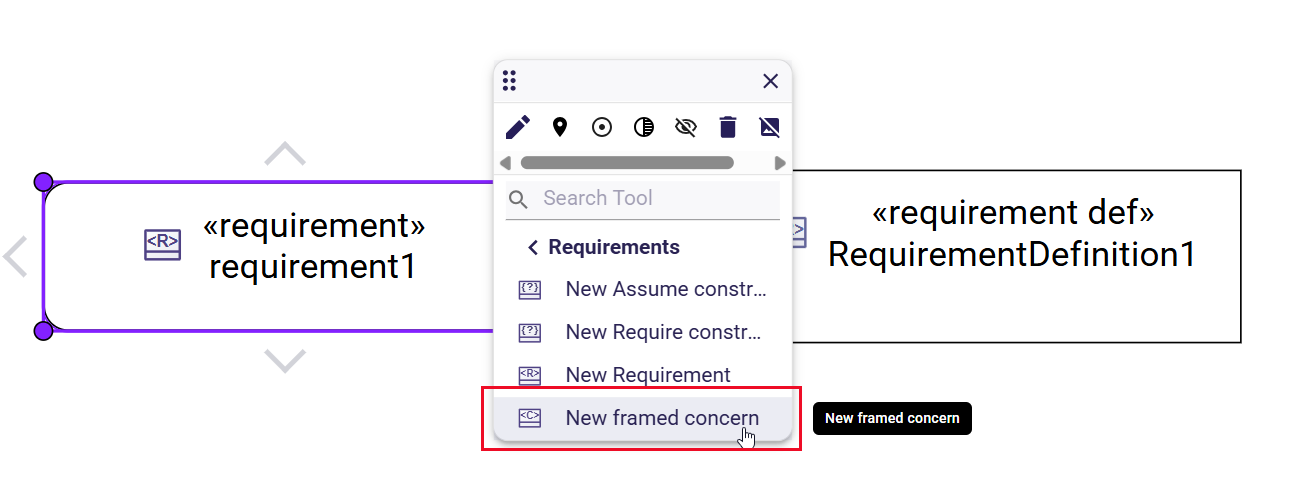
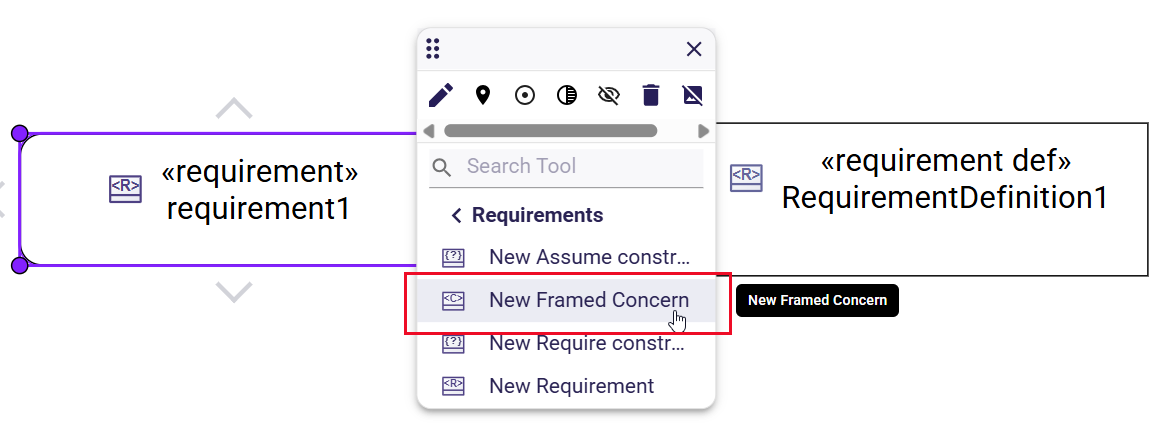
[2235] Leverage the selection dialog to create framed concern usages
Bug: https://github.com/eclipse-syson/syson/issues/2235

diff --git a/backend/views/syson-diagram-common-view/src/main/java/org/eclipse/syson/diagram/common/view/tools/FramedConcernNodeToolProvider.java b/backend/views/syson-diagram-common-view/src/main/java/org/eclipse/syson/diagram/common/view/tools/FramedConcernNodeToolProvider.java
@@ -1,0 +1,98 @@
+/*******************************************************************************
+ * Copyright (c) 2026 Obeo.
+ * This program and the accompanying materials
+ * are made available under the terms of the Eclipse Public License v2.0
+ * which accompanies this distribution, and is available at
+ * https://www.eclipse.org/legal/epl-2.0/
+ *
+ * SPDX-License-Identifier: EPL-2.0
+ *
+ * Contributors:
+ *     Obeo - initial API and implementation
+ *******************************************************************************/
+package org.eclipse.syson.diagram.common.view.tools;
+
+import org.eclipse.sirius.components.collaborative.diagrams.DiagramContext;
+import org.eclipse.sirius.components.core.api.IEditingContext;
+import org.eclipse.sirius.components.diagrams.Node;
+import org.eclipse.sirius.components.trees.renderer.TreeRenderer;
+import org.eclipse.sirius.components.view.builder.IViewDiagramElementFinder;
+import org.eclipse.sirius.components.view.builder.generated.diagram.DiagramBuilders;
+import org.eclipse.sirius.components.view.builder.generated.view.ViewBuilders;
+import org.eclipse.sirius.components.view.builder.providers.INodeToolProvider;
+import org.eclipse.sirius.components.view.diagram.DialogDescription;
+import org.eclipse.sirius.components.view.diagram.NodeTool;
+import org.eclipse.sirius.components.view.emf.diagram.ViewDiagramDescriptionConverter;
+import org.eclipse.syson.diagram.common.view.services.ViewToolService;
+import org.eclipse.syson.diagram.services.aql.DiagramMutationAQLService;
+import org.eclipse.syson.model.services.aql.ModelMutationAQLService;
+import org.eclipse.syson.sysml.SysmlPackage;
+import org.eclipse.syson.util.AQLConstants;
+import org.eclipse.syson.util.ServiceMethod;
+import org.eclipse.syson.util.SysMLMetamodelHelper;
+
+/**
+ * Used to create a Framed {@link org.eclipse.syson.sysml.ConcernUsage} in a {@link org.eclipse.syson.sysml.RequirementUsage} or a {@link org.eclipse.syson.sysml.RequirementDefinition}.
+ *
+ * @author gcoutable
+ */
+public class FramedConcernNodeToolProvider implements INodeToolProvider {
+
+    private final DiagramBuilders diagramBuilderHelper = new DiagramBuilders();
+
+    private final ViewBuilders viewBuilderHelper = new ViewBuilders();
+
+    @Override
+    public NodeTool create(IViewDiagramElementFinder cache) {
+        var builder = this.diagramBuilderHelper.newNodeTool();
+
+        var updateExposedElements = this.viewBuilderHelper.newChangeContext()
+                .expression(ServiceMethod.of4(DiagramMutationAQLService::expose).aqlSelf(IEditingContext.EDITING_CONTEXT, DiagramContext.DIAGRAM_CONTEXT, Node.SELECTED_NODE,
+                        ViewDiagramDescriptionConverter.CONVERTED_NODES_VARIABLE));
+
+        var selectedElementToExpose = this.viewBuilderHelper.newChangeContext()
+                .expression(AQLConstants.AQL_SELF + "." + SysmlPackage.eINSTANCE.getFramedConcernMembership_ReferencedConcern().getName())
+                .children(updateExposedElements.build());
+
+        var body = this.viewBuilderHelper.newChangeContext()
+                .expression(ServiceMethod.of1(ModelMutationAQLService::createFramedConcern).aqlSelf("selectedObject"))
+                .children(selectedElementToExpose.build());
+
+        return builder
+                .name(this.getToolName())
+                .iconURLsExpression("/icons/full/obj16/ConcernUsage.svg")
+                .body(body.build())
+                .dialogDescription(this.getSelectionDialogDescription())
+                .build();
+    }
+
+    private String getToolName() {
+        return "New Framed Concern";
+    }
+
+    private DialogDescription getSelectionDialogDescription() {
+        String concernUsageType = SysMLMetamodelHelper.buildQualifiedName(SysmlPackage.eINSTANCE.getConcernUsage());
+
+        var selectionDialogTree = this.diagramBuilderHelper.newSelectionDialogTreeDescription()
+                .isSelectableExpression(AQLConstants.AQL_SELF + ".oclIsKindOf(" + concernUsageType + ")")
+                .elementsExpression(ServiceMethod.of0(ViewToolService::getConcernReferenceSelectionDialogElements).aql(IEditingContext.EDITING_CONTEXT))
+                .childrenExpression(ServiceMethod.of2(ViewToolService::getConcernReferenceSelectionDialogChildren).aqlSelf(IEditingContext.EDITING_CONTEXT, TreeRenderer.EXPANDED))
+                .build();
+
+        return this.diagramBuilderHelper.newSelectionDialogDescription()
+                .selectionDialogTreeDescription(selectionDialogTree)
+                .defaultTitleExpression(this.getToolName())
+                .noSelectionTitleExpression(this.getToolName())
+                .withSelectionTitleExpression(this.getToolName())
+                .descriptionExpression("Create a Framed Concern")
+                .noSelectionActionLabelExpression("Create a New Framed Concern")
+                .noSelectionActionDescriptionExpression("Create a New Framed Concern without referencing an existing Concern")
+                .withSelectionActionLabelExpression("Select an existing Concern to frame")
+                .withSelectionActionDescriptionExpression("Create a New Framed Concern referencing the selected Concern")
+                .noSelectionActionStatusMessageExpression("It will create a New Framed Concern without referencing an existing Concern")
+                .selectionRequiredWithoutSelectionStatusMessageExpression("Select on Concern to frame")
+                .selectionRequiredWithSelectionStatusMessageExpression(AQLConstants.AQL + "'It will create a new Concern referencing ' + selectedObjects->first().name")
+                .optional(true)
+                .build();
+    }
+}

diff --git a/backend/application/syson-application/src/test/java/org/eclipse/syson/application/controllers/diagrams/general/view/GVSubNodeRequirementCreationTests.java b/backend/application/syson-application/src/test/java/org/eclipse/syson/application/controllers/diagrams/general/view/GVSubNodeRequirementCreationTests.java
@@ -30,6 +30,7 @@ import org.eclipse.emf.ecore.EClass;
 import org.eclipse.emf.ecore.EReference;
 import org.eclipse.sirius.components.collaborative.diagrams.dto.DiagramEventInput;
 import org.eclipse.sirius.components.collaborative.diagrams.dto.DiagramRefreshedEventPayload;
+import org.eclipse.sirius.components.core.api.IIdentityService;
 import org.eclipse.sirius.components.core.api.IObjectSearchService;
 import org.eclipse.sirius.components.diagrams.Diagram;
 import org.eclipse.sirius.components.view.emf.diagram.IDiagramIdProvider;
@@ -44,6 +45,7 @@ import org.eclipse.syson.application.controllers.diagrams.checkers.DiagramChecke
 import org.eclipse.syson.application.controllers.diagrams.testers.ToolTester;
 import org.eclipse.syson.application.controllers.utils.TestNameGenerator;
 import org.eclipse.syson.application.data.GeneralViewWithTopNodesTestProjectData;
+import org.eclipse.syson.diagram.common.view.nodes.FramedConcernCompartmentItemNodeDescription;
 import org.eclipse.syson.services.SemanticRunnableFactory;
 import org.eclipse.syson.services.diagrams.DiagramComparator;
 import org.eclipse.syson.services.diagrams.DiagramDescriptionIdProvider;
@@ -51,8 +53,11 @@ import org.eclipse.syson.services.diagrams.NodeCreationTestsService;
 import org.eclipse.syson.services.diagrams.api.IGivenDiagramDescription;
 import org.eclipse.syson.services.diagrams.api.IGivenDiagramSubscription;
 import org.eclipse.syson.standard.diagrams.view.SDVDescriptionNameGenerator;
+import org.eclipse.syson.sysml.ConcernUsage;
 import org.eclipse.syson.sysml.Element;
+import org.eclipse.syson.sysml.FramedConcernMembership;
 import org.eclipse.syson.sysml.PartUsage;
+import org.eclipse.syson.sysml.ReferenceSubsetting;
 import org.eclipse.syson.sysml.ReferenceUsage;
 import org.eclipse.syson.sysml.Specialization;
 import org.eclipse.syson.sysml.Subsetting;
@@ -110,6 +115,9 @@ public class GVSubNodeRequirementCreationTests extends AbstractIntegrationTests 
 
     @Autowired
     private DiagramComparator diagramComparator;
+
+    @Autowired
+    private IIdentityService identityService;
 
     private NodeCreationTestsService creationTestsService;
 
@@ -806,10 +814,10 @@ public class GVSubNodeRequirementCreationTests extends AbstractIntegrationTests 
                 .verify(Duration.ofMinutes(10));
     }
 
-    @DisplayName("GIVEN a Requirement Usage, WHEN creating a new Framed concern, THEN a new Framed concern is created")
+    @DisplayName("GIVEN a Requirement Usage, WHEN creating a New Framed Concern without referencing another concern, THEN a New Framed Concern is created")
     @GivenSysONServer({ GeneralViewWithTopNodesTestProjectData.SCRIPT_PATH })
     @Test
-    public void createRequirementUsageFramedConcern() {
+    public void createRequirementUsageFramedConcernWithoutSelection() {
         var flux = this.givenSubscriptionToDiagram();
 
         AtomicReference<Diagram> diagram = new AtomicReference<>();
@@ -821,9 +829,77 @@ public class GVSubNodeRequirementCreationTests extends AbstractIntegrationTests 
 
         EClass parentEClass = SysmlPackage.eINSTANCE.getRequirementUsage();
         String targetObjectId = GeneralViewWithTopNodesTestProjectData.SemanticIds.REQUIREMENT_USAGE_ID;
-        Runnable createNodeRunnable = this.creationTestsService.createNode(diagramDescriptionIdProvider, diagram, parentEClass, targetObjectId, "New framed Concern");
+        Runnable createNodeRunnable = this.creationTestsService.createNodeWithSelectionDialogWithoutSelectionProvided(diagramDescriptionIdProvider, diagram, parentEClass, targetObjectId, "New Framed Concern");
         Consumer<Object> diagramCheck = this.diagramCheckerService.siblingNodeGraphicalChecker(diagram, diagramDescriptionIdProvider, SysmlPackage.eINSTANCE.getConcernUsage(), 8, 2);
         Runnable semanticCheck = this.semanticCheckerService.checkEditingContext(this.semanticCheckerService.getElementInParentSemanticChecker("requirement", SysmlPackage.eINSTANCE.getRequirementUsage_FramedConcern(), SysmlPackage.eINSTANCE.getConcernUsage()));
+
+        StepVerifier.create(flux)
+                .consumeNextWith(initialDiagramContentConsumer)
+                .then(createNodeRunnable)
+                .consumeNextWith(diagramCheck)
+                .then(semanticCheck)
+                .thenCancel()
+                .verify(Duration.ofSeconds(10));
+    }
+
+    @DisplayName("GIVEN a Requirement Usage, WHEN creating a New Framed Concern referencing another concern, THEN a New Framed Concern is created")
+    @GivenSysONServer({ GeneralViewWithTopNodesTestProjectData.SCRIPT_PATH })
+    @Test
+    public void createRequirementUsageFramedConcernWithSelection() {
+        var flux = this.givenSubscriptionToDiagram();
+
+        AtomicReference<Diagram> diagram = new AtomicReference<>();
+        Consumer<Object> initialDiagramContentConsumer = assertRefreshedDiagramThat(diagram::set);
+
+        var diagramDescription = this.givenDiagramDescription.getDiagramDescription(GeneralViewWithTopNodesTestProjectData.EDITING_CONTEXT_ID,
+                SysONRepresentationDescriptionIdentifiers.GENERAL_VIEW_DIAGRAM_DESCRIPTION_ID);
+        var diagramDescriptionIdProvider = new DiagramDescriptionIdProvider(diagramDescription, this.diagramIdProvider);
+
+        EClass parentEClass = SysmlPackage.eINSTANCE.getRequirementUsage();
+        String targetObjectId = GeneralViewWithTopNodesTestProjectData.SemanticIds.REQUIREMENT_USAGE_ID;
+        Runnable createNodeRunnable = this.creationTestsService.createNodeWithSelectionDialogWithSingleSelection(diagramDescriptionIdProvider, diagram, parentEClass, targetObjectId, "New Framed Concern", GeneralViewWithTopNodesTestProjectData.SemanticIds.CONCERN_USAGE_ID);
+        Consumer<Object> diagramCheck = assertRefreshedDiagramThat(newDiagram -> {
+            new CheckDiagramElementCount(this.diagramComparator)
+                    .hasNewNodeCount(1)
+                    .hasNewEdgeCount(1)
+                    .check(diagram.get(), newDiagram);
+
+            String newNodeDescriptionName = this.descriptionNameGenerator.getCompartmentItemName(SysmlPackage.eINSTANCE.getRequirementUsage(), SysmlPackage.eINSTANCE.getRequirementUsage_FramedConcern()) + FramedConcernCompartmentItemNodeDescription.COMPARTMENT_ITEM_NAME;
+            new CheckNodeInCompartment(diagramDescriptionIdProvider, this.diagramComparator)
+                    .withTargetObjectId(targetObjectId)
+                    .withCompartmentName("frames")
+                    .hasNodeDescriptionName(newNodeDescriptionName)
+                    .hasCompartmentCount(0)
+                    .isHidden()
+                    .check(diagram.get(), newDiagram);
+        });
+
+        Consumer<Object> additionalCheck = object -> {
+            assertThat(object).isInstanceOf(List.class)
+                    .asInstanceOf(type(List.class))
+                    .satisfies(concernUsages -> {
+                        assertThat((List<?>) concernUsages).size().isEqualTo(1);
+                        assertThat(concernUsages.getFirst())
+                                .isInstanceOf(ConcernUsage.class)
+                                .asInstanceOf(type(ConcernUsage.class))
+                                .satisfies(concernUsage -> {
+                                    assertThat(concernUsage.eContainer())
+                                            .isInstanceOf(FramedConcernMembership.class)
+                                            .asInstanceOf(type(FramedConcernMembership.class))
+                                            .satisfies(framedConcernMembership -> {
+                                                assertThat(this.identityService.getId(framedConcernMembership.getReferencedConcern())).isEqualTo(GeneralViewWithTopNodesTestProjectData.SemanticIds.CONCERN_USAGE_ID);
+                                                assertThat(concernUsage.getOwnedRelationship().getFirst())
+                                                        .isInstanceOf(ReferenceSubsetting.class)
+                                                        .asInstanceOf(type(ReferenceSubsetting.class))
+                                                        .satisfies(referenceSubsetting -> {
+                                                            assertThat(referenceSubsetting.getReferencedFeature()).isEqualTo(framedConcernMembership.getReferencedConcern());
+                                                        });
+                                            });
+                                });
+                    });
+        };
+
+        Runnable semanticCheck = this.semanticCheckerService.checkEditingContext(this.semanticCheckerService.getElementInParentSemanticChecker("requirement", SysmlPackage.eINSTANCE.getRequirementUsage_FramedConcern(), SysmlPackage.eINSTANCE.getConcernUsage(), additionalCheck));
 
         StepVerifier.create(flux)
                 .consumeNextWith(initialDiagramContentConsumer)

diff --git a/backend/views/syson-diagram-common-view/src/main/java/org/eclipse/syson/diagram/common/view/services/ViewToolService.java b/backend/views/syson-diagram-common-view/src/main/java/org/eclipse/syson/diagram/common/view/services/ViewToolService.java
@@ -608,6 +608,36 @@ public class ViewToolService extends ToolService {
     }
 
     /**
+     * Provides the root elements in the tree of the selection dialog for presenting all existing ConcernUsage.
+     *
+     * @param editingContext
+     *            the (non-{@code null}) {@link IEditingContext}.
+     * @return the (non-{@code null}) {@link List} of all {@link Resource} and {@link ISysONExplorerFragment} that
+     *         contain at least one {@link org.eclipse.syson.sysml.ConcernUsage}.
+     */
+    public List<Object> getConcernReferenceSelectionDialogElements(IEditingContext editingContext) {
+        return this.getAllResourcesWithInstancesOf(editingContext, List.of(SysmlPackage.eINSTANCE.getConcernUsage()));
+    }
+
+    /**
+     * Provides the children of element in the tree of the selection dialog for presenting all existing ConcernUsage.
+     *
+     * @param selectionDialogTreeElement
+     *            a (non-{@code null}) selection dialog tree element.
+     * @param editingContext
+     *            the (non-{@code null}) {@link IEditingContext}.
+     * @param expandedIds
+     *            the list of already expanded treeItems, by their Ids.
+     * @return the (non-{@code null}) {@link List} of all children that contain (possibly indirectly) an
+     *         {@link org.eclipse.syson.sysml.ConcernUsage}.
+     */
+    public List<? extends Object> getConcernReferenceSelectionDialogChildren(Object selectionDialogTreeElement, IEditingContext editingContext, List<String> expandedIds) {
+        return this.getChildrenWithInstancesOf(selectionDialogTreeElement, editingContext, expandedIds, List.of(SysmlPackage.eINSTANCE.getConcernUsage()));
+    }
+
+
+
+    /**
      * Provides the root elements in the tree of the selection dialog for the any creation tool.
      *
      * @param editingContext

diff --git a/backend/services/syson-model-services/src/main/java/org/eclipse/syson/model/services/ModelMutationElementService.java b/backend/services/syson-model-services/src/main/java/org/eclipse/syson/model/services/ModelMutationElementService.java
@@ -220,13 +220,16 @@ public class ModelMutationElementService {
             var newConcernUsage = SysmlFactory.eINSTANCE.createConcernUsage();
             newFramedConcernMembership.getOwnedRelatedElement().add(newConcernUsage);
 
-            var newReferenceSubsetting = SysmlFactory.eINSTANCE.createReferenceSubsetting();
-            newConcernUsage.getOwnedRelationship().add(newReferenceSubsetting);
-            newReferenceSubsetting.setReferencedFeature(concernUsage);
-
             this.metamodelMutationElementService.initialize(newFramedConcernMembership);
             this.metamodelMutationElementService.initialize(newConcernUsage);
-            this.metamodelMutationElementService.initialize(newReferenceSubsetting);
+
+            if (concernUsage != null) {
+                var newReferenceSubsetting = SysmlFactory.eINSTANCE.createReferenceSubsetting();
+                newConcernUsage.getOwnedRelationship().add(newReferenceSubsetting);
+                newReferenceSubsetting.setReferencedFeature(concernUsage);
+                this.metamodelMutationElementService.initialize(newReferenceSubsetting);
+            }
+
             return newFramedConcernMembership;
         }
         return null;

diff --git a/backend/views/syson-diagram-common-view/src/main/java/org/eclipse/syson/diagram/common/view/nodes/FramedConcernCompartmentNodeDescription.java b/backend/views/syson-diagram-common-view/src/main/java/org/eclipse/syson/diagram/common/view/nodes/FramedConcernCompartmentNodeDescription.java
@@ -18,8 +18,10 @@ import org.eclipse.emf.ecore.EClass;
 import org.eclipse.emf.ecore.EReference;
 import org.eclipse.sirius.components.view.builder.IViewDiagramElementFinder;
 import org.eclipse.sirius.components.view.builder.providers.IColorProvider;
+import org.eclipse.sirius.components.view.builder.providers.INodeToolProvider;
 import org.eclipse.sirius.components.view.diagram.DiagramDescription;
 import org.eclipse.sirius.components.view.diagram.NodeDescription;
+import org.eclipse.syson.diagram.common.view.tools.FramedConcernNodeToolProvider;
 import org.eclipse.syson.util.IDescriptionNameGenerator;
 
 /**
@@ -52,6 +54,11 @@ public class FramedConcernCompartmentNodeDescription extends AbstractCompartment
                     .ifPresent(itemNodeDescription -> nodeDescription.getChildrenDescriptions().add(itemNodeDescription));
             nodeDescription.setPalette(this.createCompartmentPalette(cache));
         });
+    }
+
+    @Override
+    protected List<INodeToolProvider> getItemCreationToolProviders() {
+        return List.of(new FramedConcernNodeToolProvider());
     }
 
     @Override

diff --git a/backend/views/syson-standard-diagrams-view/src/main/java/org/eclipse/syson/standard/diagrams/view/SDVDiagramDescriptionProvider.java b/backend/views/syson-standard-diagrams-view/src/main/java/org/eclipse/syson/standard/diagrams/view/SDVDiagramDescriptionProvider.java
@@ -231,8 +231,8 @@ public class SDVDiagramDescriptionProvider implements IRepresentationDescription
             Map.entry(SysmlPackage.eINSTANCE.getPerformActionUsage(),      List.of(SysmlPackage.eINSTANCE.getElement_Documentation(), SysmlPackage.eINSTANCE.getUsage_NestedItem(), SysmlPackage.eINSTANCE.getUsage_NestedAction())),
             Map.entry(SysmlPackage.eINSTANCE.getPortDefinition(),          List.of(SysmlPackage.eINSTANCE.getElement_Documentation(), SysmlPackage.eINSTANCE.getDefinition_OwnedAttribute(), SysmlPackage.eINSTANCE.getDefinition_OwnedPort(), SysmlPackage.eINSTANCE.getDefinition_OwnedReference(), SysmlPackage.eINSTANCE.getDefinition_OwnedItem())),
             Map.entry(SysmlPackage.eINSTANCE.getPortUsage(),               List.of(SysmlPackage.eINSTANCE.getElement_Documentation(), SysmlPackage.eINSTANCE.getUsage_NestedAttribute(), SysmlPackage.eINSTANCE.getUsage_NestedReference(), SysmlPackage.eINSTANCE.getUsage_NestedPort(), SysmlPackage.eINSTANCE.getUsage_NestedItem())),
-            Map.entry(SysmlPackage.eINSTANCE.getRequirementDefinition(),   List.of(SysmlPackage.eINSTANCE.getElement_Documentation(), SysmlPackage.eINSTANCE.getDefinition_OwnedAttribute(), SysmlPackage.eINSTANCE.getRequirementUsage_ActorParameter(), SysmlPackage.eINSTANCE.getDefinition_OwnedRequirement(), SysmlPackage.eINSTANCE.getRequirementDefinition_AssumedConstraint(), SysmlPackage.eINSTANCE.getRequirementDefinition_RequiredConstraint(), SysmlPackage.eINSTANCE.getRequirementDefinition_FramedConcern())),
-            Map.entry(SysmlPackage.eINSTANCE.getRequirementUsage(),        List.of(SysmlPackage.eINSTANCE.getElement_Documentation(), SysmlPackage.eINSTANCE.getUsage_NestedAttribute(), SysmlPackage.eINSTANCE.getRequirementUsage_ActorParameter(), SysmlPackage.eINSTANCE.getRequirementUsage_AssumedConstraint(), SysmlPackage.eINSTANCE.getRequirementUsage_RequiredConstraint(), SysmlPackage.eINSTANCE.getRequirementUsage_FramedConcern(), SysmlPackage.eINSTANCE.getUsage_NestedPort())),
+            Map.entry(SysmlPackage.eINSTANCE.getRequirementDefinition(),   List.of(SysmlPackage.eINSTANCE.getElement_Documentation(), SysmlPackage.eINSTANCE.getDefinition_OwnedAttribute(), SysmlPackage.eINSTANCE.getRequirementUsage_ActorParameter(), SysmlPackage.eINSTANCE.getDefinition_OwnedRequirement(), SysmlPackage.eINSTANCE.getRequirementDefinition_AssumedConstraint(), SysmlPackage.eINSTANCE.getRequirementDefinition_RequiredConstraint())),
+            Map.entry(SysmlPackage.eINSTANCE.getRequirementUsage(),        List.of(SysmlPackage.eINSTANCE.getElement_Documentation(), SysmlPackage.eINSTANCE.getUsage_NestedAttribute(), SysmlPackage.eINSTANCE.getRequirementUsage_ActorParameter(), SysmlPackage.eINSTANCE.getRequirementUsage_AssumedConstraint(), SysmlPackage.eINSTANCE.getRequirementUsage_RequiredConstraint(), SysmlPackage.eINSTANCE.getUsage_NestedPort())),
             Map.entry(SysmlPackage.eINSTANCE.getSatisfyRequirementUsage(), List.of(SysmlPackage.eINSTANCE.getElement_Documentation(), SysmlPackage.eINSTANCE.getUsage_NestedAttribute(), SysmlPackage.eINSTANCE.getRequirementUsage_AssumedConstraint(), SysmlPackage.eINSTANCE.getRequirementUsage_RequiredConstraint(), SysmlPackage.eINSTANCE.getUsage_NestedPort())),
             Map.entry(SysmlPackage.eINSTANCE.getStateDefinition(),         List.of(SysmlPackage.eINSTANCE.getElement_Documentation(), SysmlPackage.eINSTANCE.getDefinition_OwnedAction(), SysmlPackage.eINSTANCE.getDefinition_OwnedState())),
             Map.entry(SysmlPackage.eINSTANCE.getStateUsage(),              List.of(SysmlPackage.eINSTANCE.getElement_Documentation(), SysmlPackage.eINSTANCE.getUsage_NestedAction(), SysmlPackage.eINSTANCE.getUsage_NestedState())),
@@ -639,9 +639,6 @@ public class SDVDiagramDescriptionProvider implements IRepresentationDescription
                 }  else if (SysmlPackage.eINSTANCE.getPortUsage().equals(eClass) && SysmlPackage.eINSTANCE.getUsage_NestedItem().equals(eReference)) {
                     compartmentNodeDescriptionProviders.add(new CompartmentNodeDescriptionProvider(eClass, eReference, colorProvider));
                     compartmentNodeDescriptionProviders.add(new PortUsageNestedItemCompartmentItemNodeDescriptionProvider(colorProvider, this.getDescriptionNameGenerator()));
-                } else if (SysmlPackage.eINSTANCE.getRequirementDefinition().equals(eClass) && SysmlPackage.eINSTANCE.getRequirementDefinition_FramedConcern().equals(eReference)
-                        || SysmlPackage.eINSTANCE.getRequirementUsage().equals(eClass) && SysmlPackage.eINSTANCE.getRequirementUsage_FramedConcern().equals(eReference)) {
-                    compartmentNodeDescriptionProviders.add(new InheritedCompartmentItemNodeDescriptionProvider(eClass, eReference, colorProvider, this.getDescriptionNameGenerator()));
                 } else {
                     compartmentNodeDescriptionProviders.add(new CompartmentItemNodeDescriptionProvider(eClass, eReference, colorProvider, this.getDescriptionNameGenerator()));
                     compartmentNodeDescriptionProviders.add(new CompartmentNodeDescriptionProvider(eClass, eReference, colorProvider));

diff --git a/backend/views/syson-standard-diagrams-view/src/main/java/org/eclipse/syson/standard/diagrams/view/services/SDVNodeToolSectionSwitch.java b/backend/views/syson-standard-diagrams-view/src/main/java/org/eclipse/syson/standard/diagrams/view/services/SDVNodeToolSectionSwitch.java
@@ -37,6 +37,7 @@ import org.eclipse.syson.diagram.common.view.tools.DoneActionNodeToolProvider;
 import org.eclipse.syson.diagram.common.view.tools.DoneStateNodeToolProvider;
 import org.eclipse.syson.diagram.common.view.tools.ExhibitStateNodeToolProvider;
 import org.eclipse.syson.diagram.common.view.tools.ForkActionNodeToolProvider;
+import org.eclipse.syson.diagram.common.view.tools.FramedConcernNodeToolProvider;
 import org.eclipse.syson.diagram.common.view.tools.InterfaceDefinitionEndCompartmentNodeToolProvider;
 import org.eclipse.syson.diagram.common.view.tools.JoinActionNodeToolProvider;
 import org.eclipse.syson.diagram.common.view.tools.MergeActionNodeToolProvider;
@@ -698,6 +699,8 @@ public class SDVNodeToolSectionSwitch extends AbstractViewNodeToolSectionSwitch 
                 this.toolDescriptionService.createNodeTool(this.getNodeDescription(SysmlPackage.eINSTANCE.getPartUsage()), SysmlPackage.eINSTANCE.getPartUsage()));
         this.toolDescriptionService.addNodeTool(sections, ToolConstants.REQUIREMENTS,
                 this.toolDescriptionService.createNodeTool(this.getNodeDescription(SysmlPackage.eINSTANCE.getRequirementUsage()), SysmlPackage.eINSTANCE.getRequirementUsage()));
+        this.toolDescriptionService.addNodeTool(sections, ToolConstants.REQUIREMENTS,
+                new FramedConcernNodeToolProvider().create(this.cache));
         this.toolDescriptionService.addNodeTool(sections, ToolConstants.STRUCTURE, this.createNewSubjectNodeTool());
         this.toolDescriptionService.addNodeTool(sections, ToolConstants.STRUCTURE, this.createNewActorNodeTool());
         this.toolDescriptionService.addNodeTool(sections, ToolConstants.STRUCTURE, this.createNewStakeholderNodeTool());
@@ -718,6 +721,8 @@ public class SDVNodeToolSectionSwitch extends AbstractViewNodeToolSectionSwitch 
     @Override
     public List<NodeToolSection> caseRequirementDefinition(RequirementDefinition object) {
         var sections = this.toolDescriptionService.createDefaultNodeToolSections();
+        this.toolDescriptionService.addNodeTool(sections, ToolConstants.REQUIREMENTS,
+                new FramedConcernNodeToolProvider().create(this.cache));
         this.toolDescriptionService.addNodeTool(sections, ToolConstants.STRUCTURE, this.createNewSubjectNodeTool());
         this.toolDescriptionService.addNodeTool(sections, ToolConstants.STRUCTURE, this.createNewActorNodeTool());
         this.toolDescriptionService.addNodeTool(sections, ToolConstants.STRUCTURE, this.createNewStakeholderNodeTool());

diff --git a/backend/views/syson-standard-diagrams-view/src/main/java/org/eclipse/syson/standard/diagrams/view/SDVDescriptionNameGenerator.java b/backend/views/syson-standard-diagrams-view/src/main/java/org/eclipse/syson/standard/diagrams/view/SDVDescriptionNameGenerator.java
@@ -42,9 +42,6 @@ public class SDVDescriptionNameGenerator extends DescriptionNameGenerator {
         } else if (SysmlPackage.eINSTANCE.getRequirementUsage_RequiredConstraint().equals(eReference)
                 || SysmlPackage.eINSTANCE.getRequirementDefinition_RequiredConstraint().equals(eReference)) {
             name = "New Require constraint";
-        } else if (SysmlPackage.eINSTANCE.getRequirementUsage_FramedConcern().equals(eReference)
-                || SysmlPackage.eINSTANCE.getRequirementDefinition_FramedConcern().equals(eReference)) {
-            name = "New framed Concern";
         }
         return name;
     }

diff --git a/backend/application/syson-application/src/test/java/org/eclipse/syson/application/controllers/diagrams/general/view/GVFramedConcernTests.java b/backend/application/syson-application/src/test/java/org/eclipse/syson/application/controllers/diagrams/general/view/GVFramedConcernTests.java
@@ -130,7 +130,7 @@ public class GVFramedConcernTests extends AbstractIntegrationTests {
 
         var edgeCreationToolId = diagramDescriptionIdProvider.getEdgeCreationToolId(
                 this.descriptionNameGenerator.getNodeName(parentEClass),
-                "New framed Concern");
+                "New Framed Concern");
 
         AtomicReference<Diagram> diagram = new AtomicReference<>();
         Consumer<Object> initialDiagramContentConsumer = assertRefreshedDiagramThat(diagram::set);

diff --git a/backend/views/syson-diagram-common-view/src/main/java/org/eclipse/syson/diagram/common/view/services/ViewEdgeToolService.java b/backend/views/syson-diagram-common-view/src/main/java/org/eclipse/syson/diagram/common/view/services/ViewEdgeToolService.java
@@ -676,7 +676,7 @@ public class ViewEdgeToolService {
                 .ifPresent(targetNodeDescriptions::add);
 
         return builder
-                .name(this.nameGenerator.getCreationToolName("New framed ", SysmlPackage.eINSTANCE.getConcernUsage()))
+                .name(this.nameGenerator.getCreationToolName("New Framed ", SysmlPackage.eINSTANCE.getConcernUsage()))
                 .iconURLsExpression(METAMODEL_ICONS_PATH + SysmlPackage.eINSTANCE.getFramedConcernMembership().getName() + SVG)
                 .body(body.build())
                 .targetElementDescriptions(targetNodeDescriptions.toArray(NodeDescription[]::new))